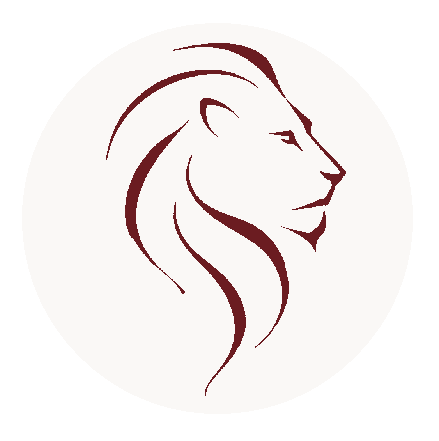
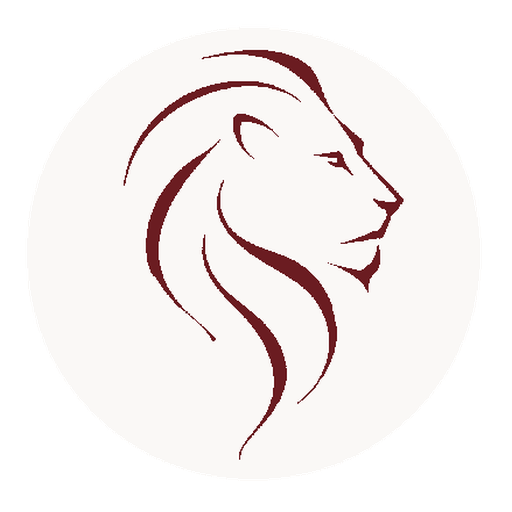
UX and polish pass across homepage and site-wide components
- Add hero CTA button anchored to enquiry form
- Show investment price in enquiry section
- Expand footer nav to include Philosophy and Testimonials
- Add subtle scroll chevron to hero
- Animate How it works steps left-to-right on scroll (once, permanent)
- Replace browser favicon with lion logo, removing black background
- Remove dead showBg variable from Header

diff --git a/src/components/Manifesto.tsx b/src/components/Manifesto.tsx
@@ -59,11 +59,11 @@ export function Manifesto() {
             ].map((item, i) => (
               <Fragment key={item.step}>
                 {i > 0 && (
-                  <div key={`sep-${i}`} className="hidden md:flex md:items-center md:self-center md:px-1 md:pb-10">
+                  <FadeIn from="left" delay={i * 0.18 - 0.09} className="hidden md:flex md:items-center md:self-center md:px-1 md:pb-10">
                     <span className="font-display text-3xl tracking-[0.5em] text-gold/40">– – –</span>
-                  </div>
+                  </FadeIn>
                 )}
-              <FadeIn delay={i * 0.12} className="md:flex-1">
+              <FadeIn from="left" delay={i * 0.18} className="md:flex-1">
                 <div className="flex flex-col items-center text-center md:px-8">
                   <p className="font-display text-5xl text-gold/30">{item.step}</p>
                   <h3 className="mt-4 font-display text-2xl text-foreground">{item.title}</h3>

diff --git a/src/components/VisualStack.tsx b/src/components/VisualStack.tsx
@@ -67,6 +67,19 @@ export function VisualStack() {
         <p className="mt-6 text-base md:text-lg text-white/75 max-w-xl tracking-wide leading-relaxed">
           A structured system helping successful men rebuild their confidence, identity, relationships, and future after divorce.
         </p>
+        <a
+          href="#enquire"
+          className="mt-10 text-xs tracking-[0.25em] text-white/80 uppercase border-b border-white/30 pb-0.5 transition-opacity hover:opacity-60"
+        >
+          Begin your enquiry →
+        </a>
+      </div>
+
+      {/* Scroll cue */}
+      <div className="absolute bottom-20 left-1/2 -translate-x-1/2 animate-bounce opacity-30" aria-hidden>
+        <svg width="20" height="20" viewBox="0 0 24 24" fill="none" stroke="white" strokeWidth="1.5" strokeLinecap="round" strokeLinejoin="round">
+          <path d="M6 9l6 6 6-6" />
+        </svg>
       </div>
 
       {/* Slide indicators */}

diff --git a/src/components/FadeIn.tsx b/src/components/FadeIn.tsx
@@ -7,9 +7,10 @@ type FadeInProps = {
   children: ReactNode;
   className?: string;
   delay?: number;
+  from?: "left";
 };
 
-export function FadeIn({ children, className, delay = 0 }: FadeInProps) {
+export function FadeIn({ children, className, delay = 0, from }: FadeInProps) {
   const reduceMotion = useReducedMotion();
 
   if (reduceMotion) {
@@ -19,8 +20,8 @@ export function FadeIn({ children, className, delay = 0 }: FadeInProps) {
   return (
     <motion.div
       className={className}
-      initial={{ opacity: 0, y: 12 }}
-      whileInView={{ opacity: 1, y: 0 }}
+      initial={{ opacity: 0, x: from === "left" ? -20 : 0, y: from === "left" ? 0 : 12 }}
+      whileInView={{ opacity: 1, x: 0, y: 0 }}
       viewport={{ once: true, margin: "-80px" }}
       transition={{
         duration: 1,

diff --git a/src/components/Footer.tsx b/src/components/Footer.tsx
@@ -18,6 +18,12 @@ export function Footer() {
         </p>
 
         <div className="flex flex-wrap items-center justify-center gap-x-8 gap-y-2 text-xs tracking-[0.1em] text-muted uppercase">
+          <Link href="/our-mission" className="link-underline hover:text-burgundy">
+            Our Philosophy
+          </Link>
+          <Link href="/testimonials" className="link-underline hover:text-burgundy">
+            Testimonials
+          </Link>
           <Link href="/about" className="link-underline hover:text-burgundy">
             About Arun
           </Link>

diff --git a/src/components/Enquiry.tsx b/src/components/Enquiry.tsx
@@ -84,6 +84,9 @@ export function Enquiry() {
           <p className="mt-6 text-center text-sm leading-relaxed text-muted">
             Entirely private. Each enquiry is considered personally. You will hear back within 24 hours.
           </p>
+          <p className="mt-3 text-center text-xs tracking-[0.15em] text-muted/60 uppercase">
+            An investment of £1,000 / month
+          </p>
         </FadeIn>
 
         <FadeIn delay={0.12}>

diff --git a/src/components/Header.tsx b/src/components/Header.tsx
@@ -13,7 +13,7 @@ interface SearchResult {
 }
 
 export function Header({ hideDesktopNav = false }: { hideDesktopNav?: boolean }) {
-  const { atTop, showBg } = useHeaderState();
+  const { atTop } = useHeaderState();
   const pathname = usePathname();
   const [searchOpen, setSearchOpen] = useState(false);
   const [menuOpen, setMenuOpen] = useState(false);

diff --git a/src/app/layout.tsx b/src/app/layout.tsx
@@ -42,10 +42,6 @@ export const metadata: Metadata = {
     description: "A bespoke path from recovery to mastery.",
     images: ["/brand/logo-red.png"],
   },
-  icons: {
-    icon: "/brand/logo-red.png",
-    apple: "/brand/logo-red.png",
-  },
 };
 
 export default function RootLayout({
